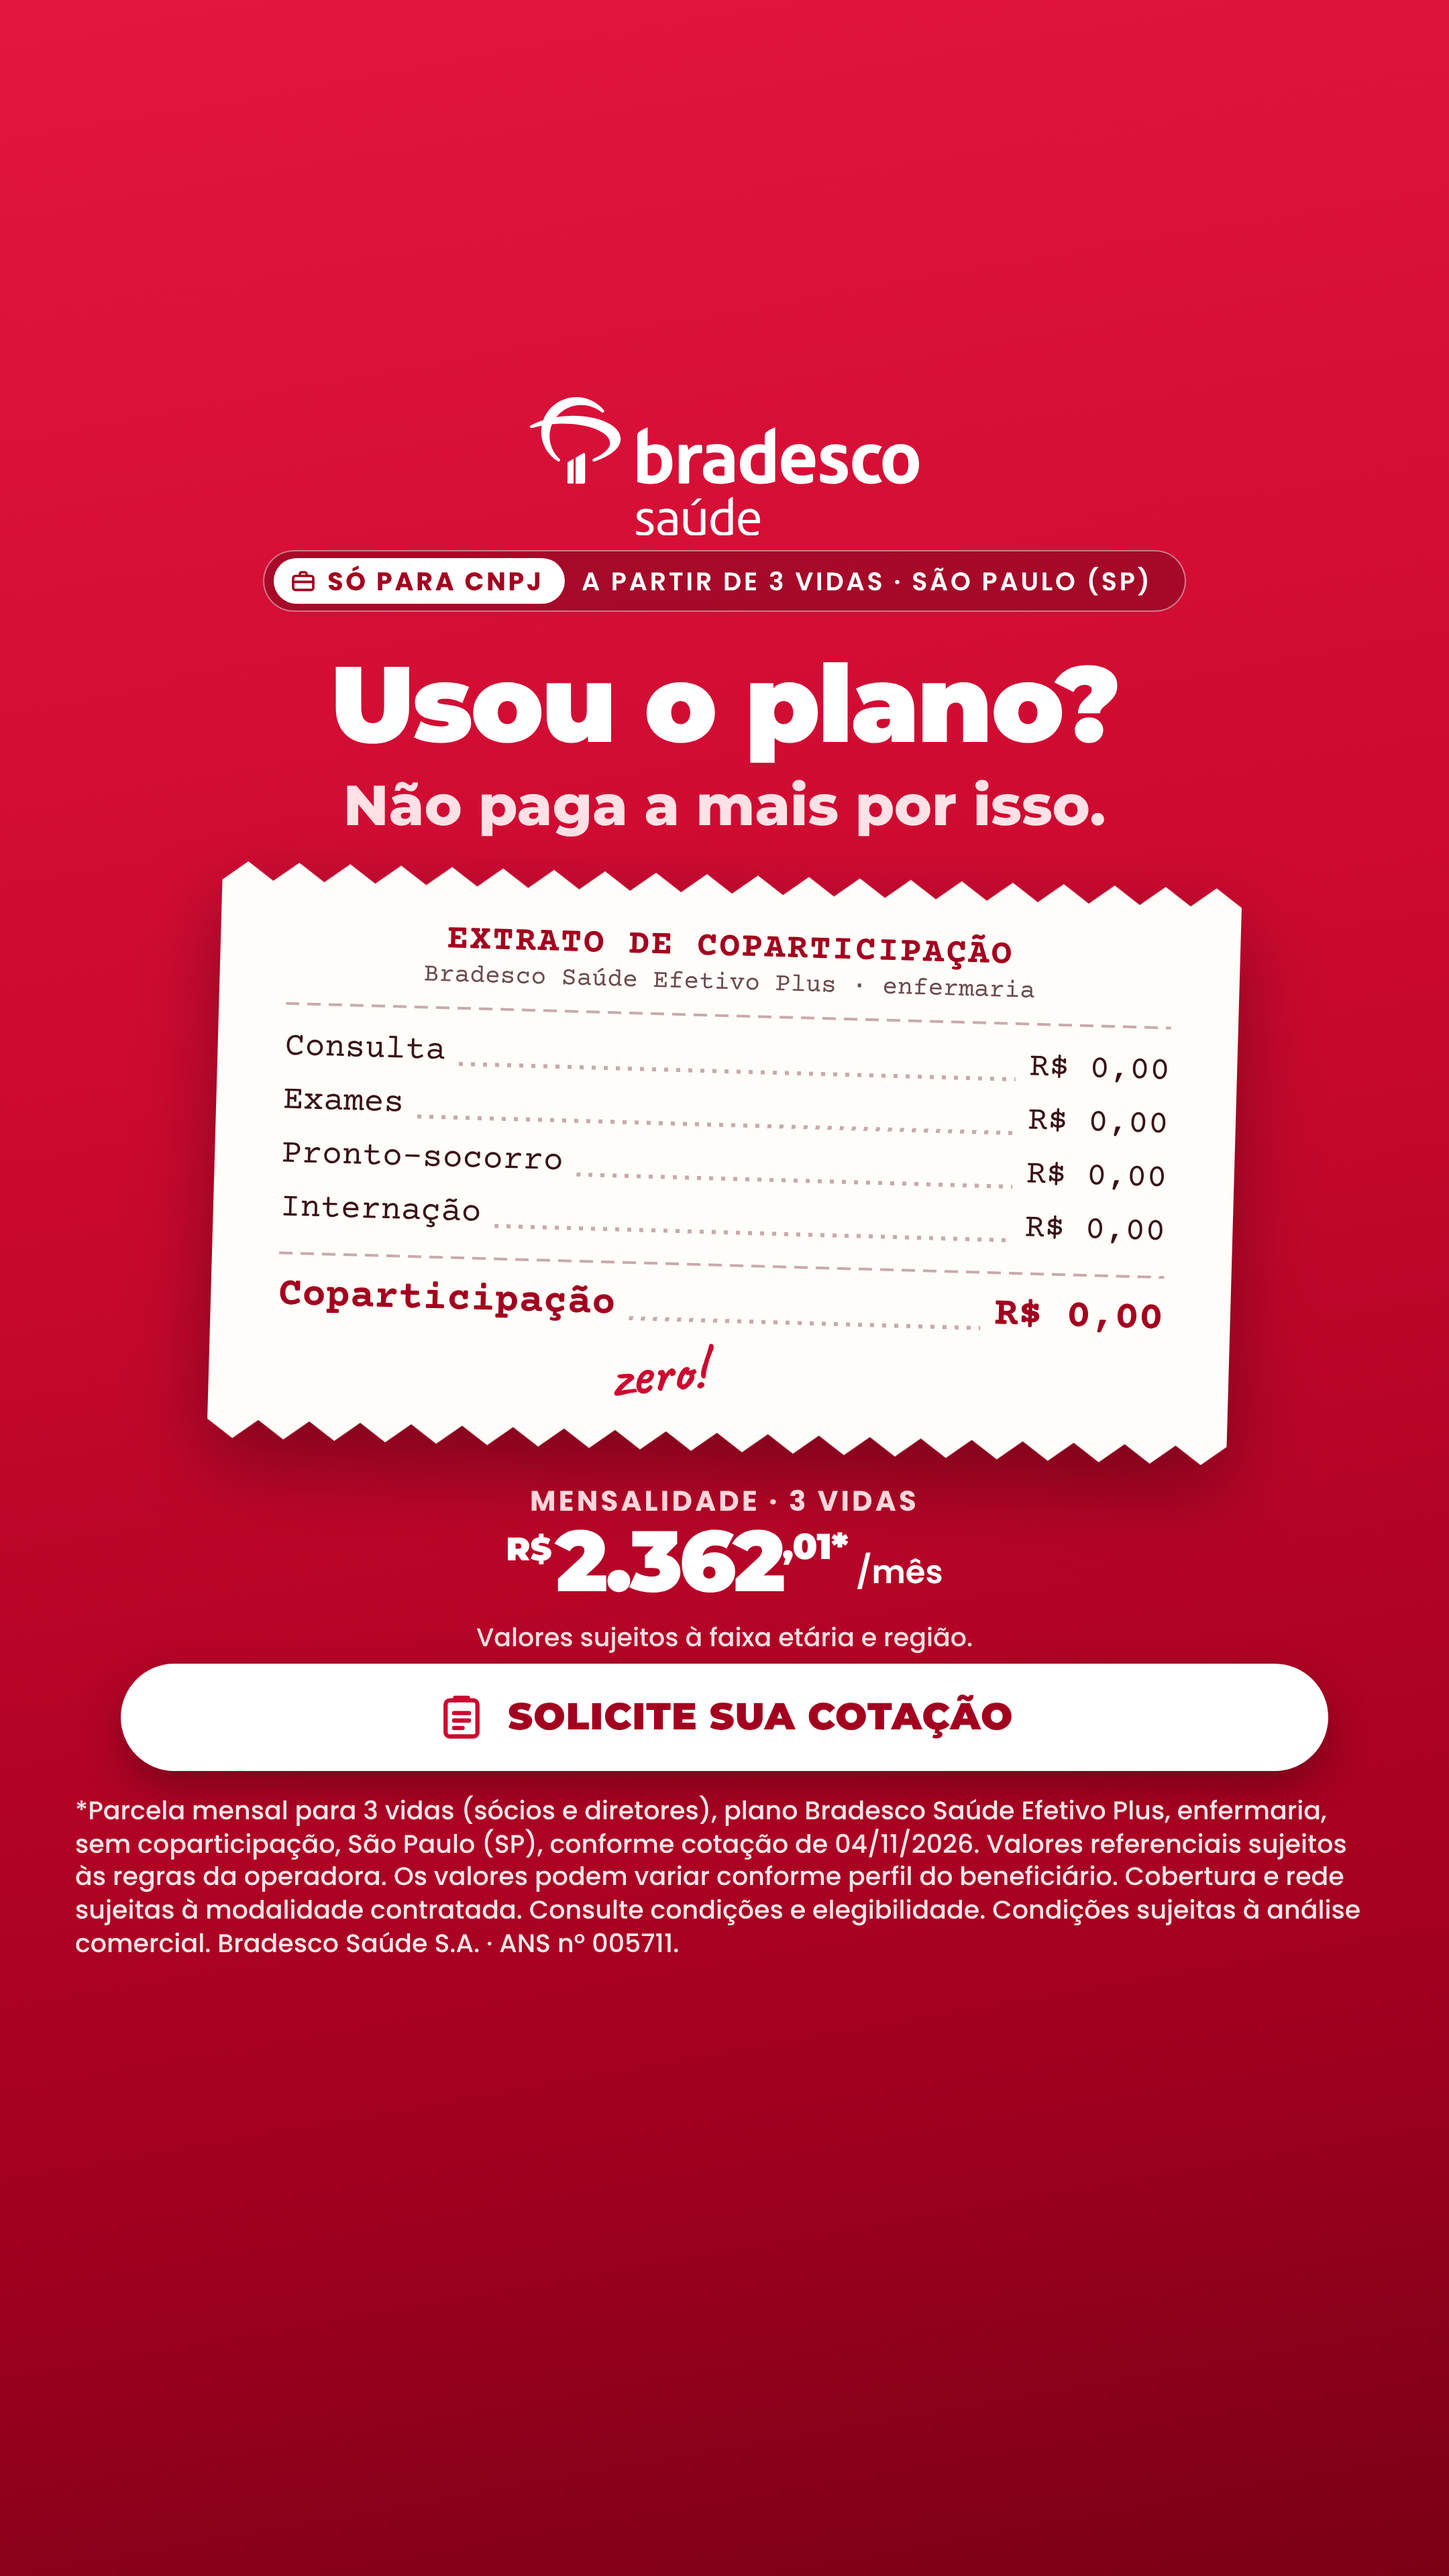
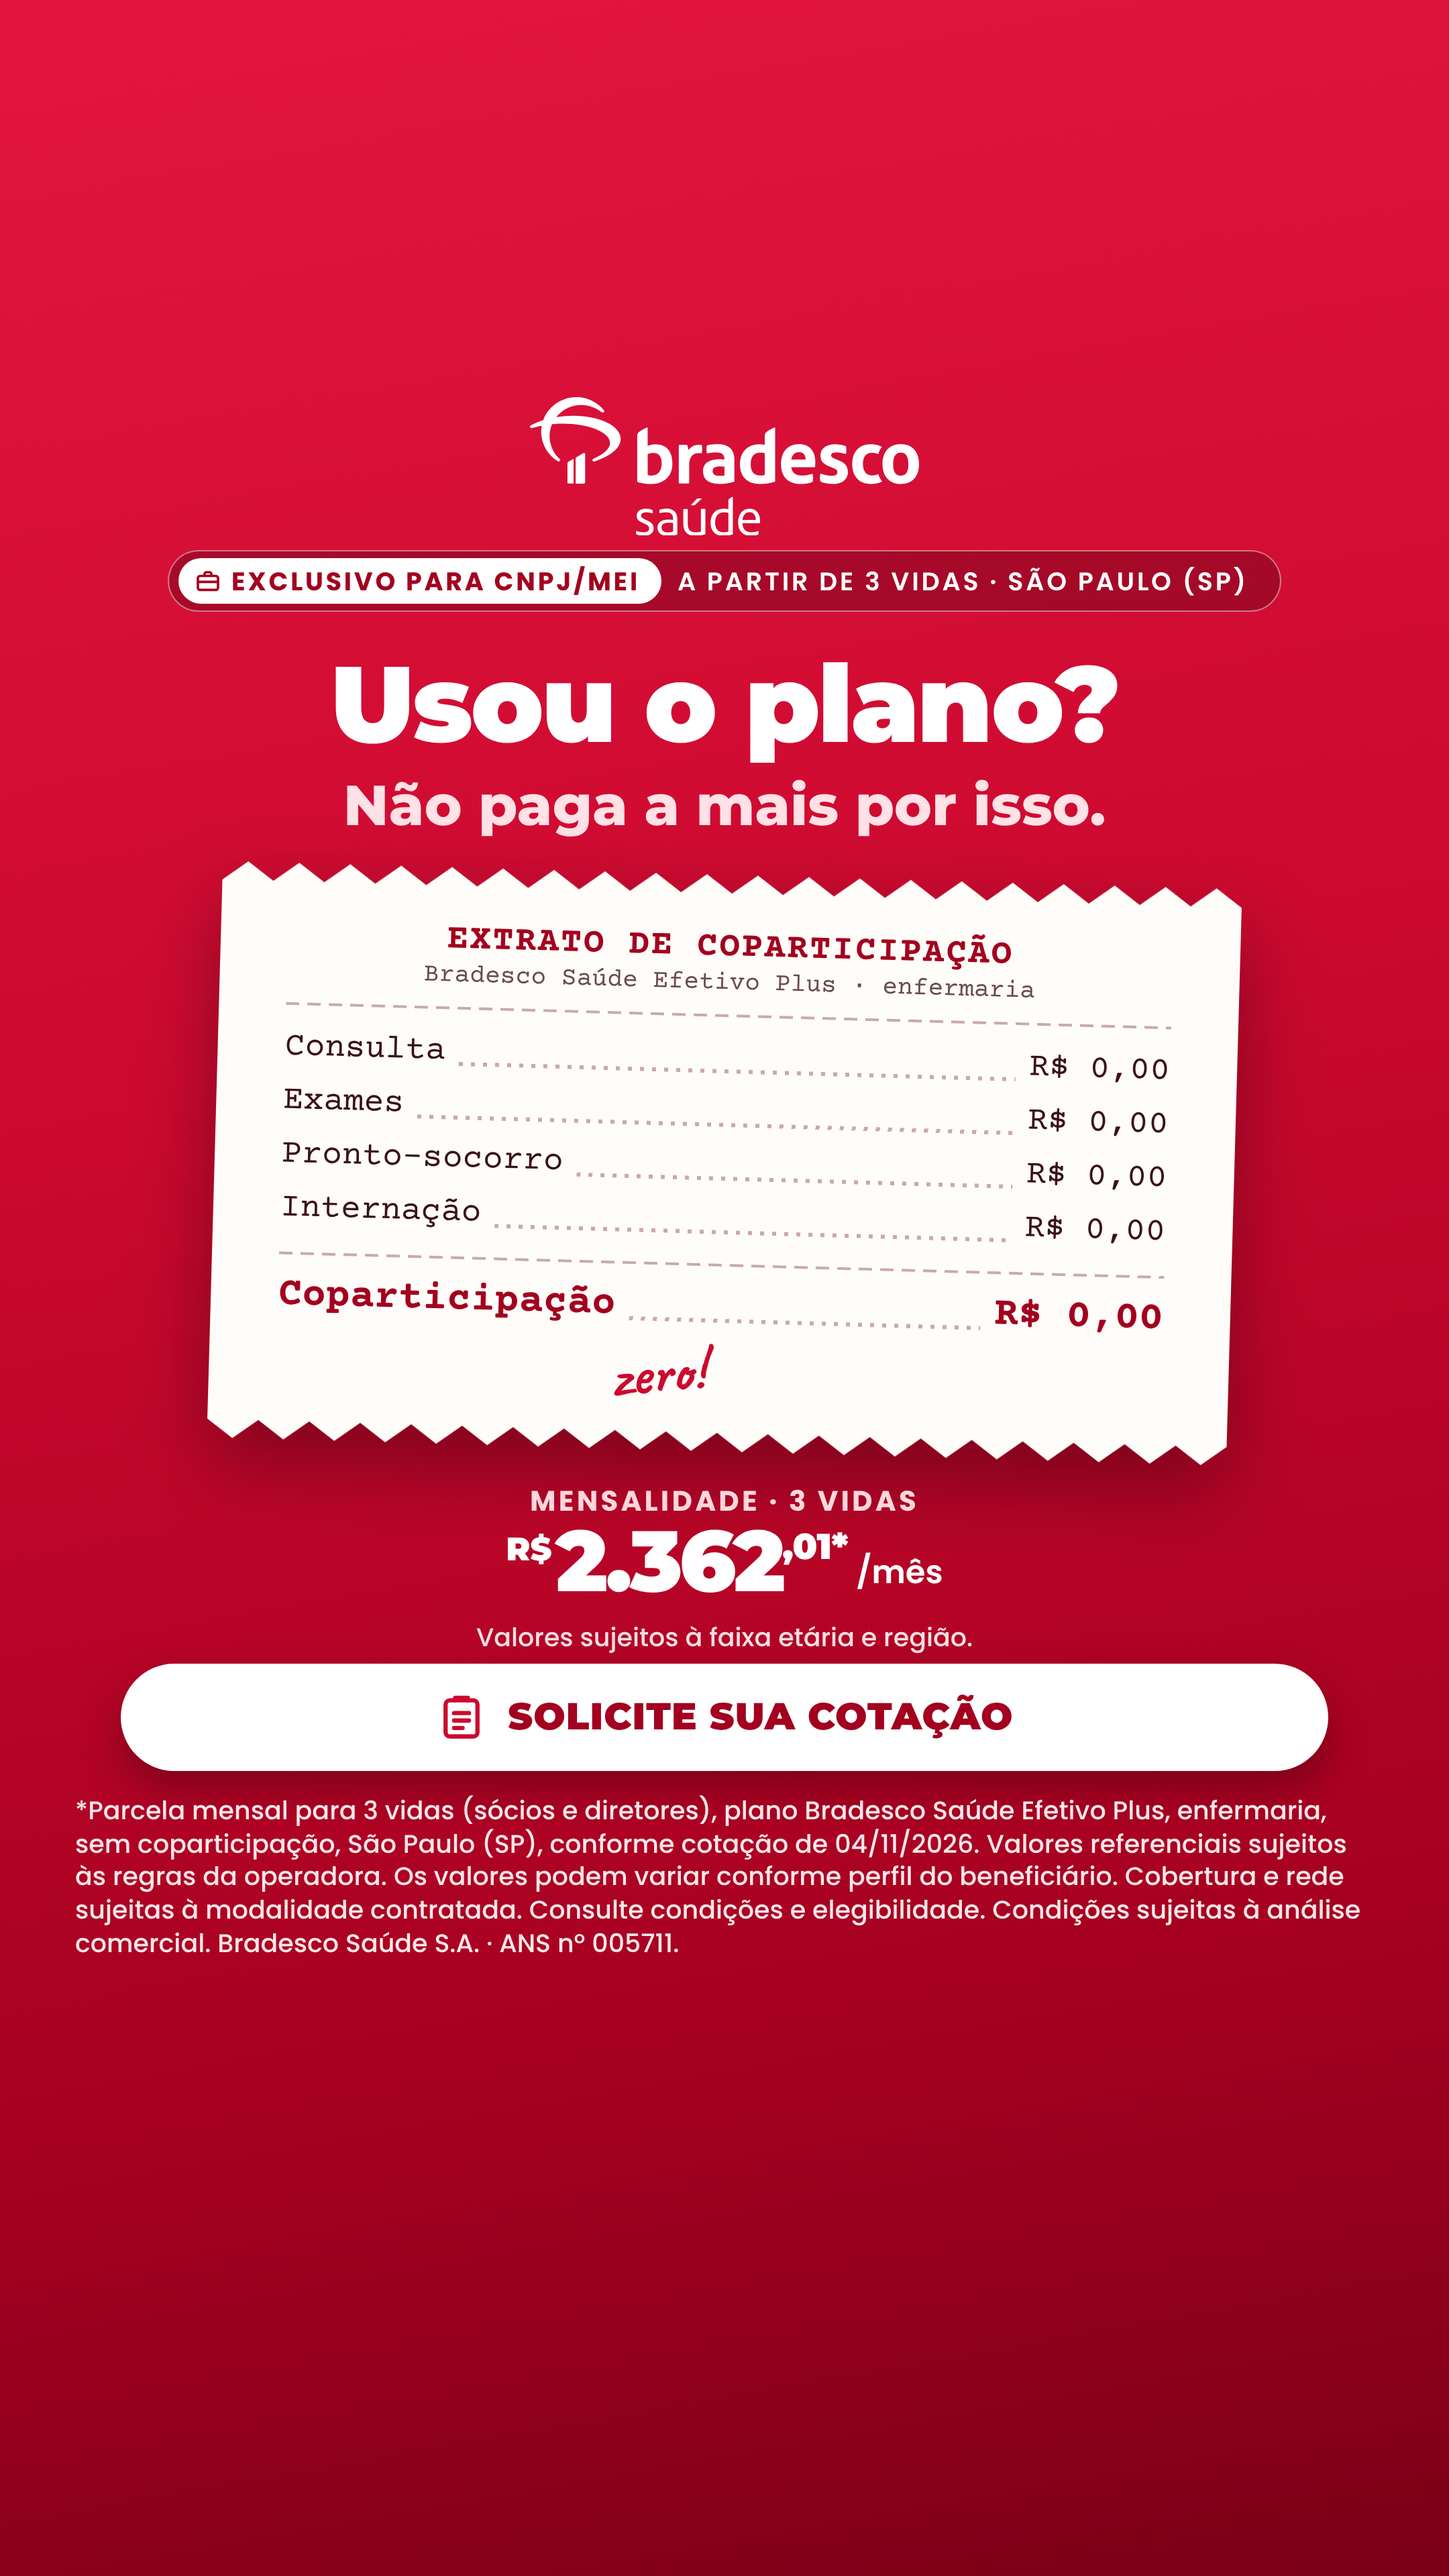
Cotações 3 vidas SP: etiqueta "Exclusivo para CNPJ/MEI"
Texto pedido pelo cliente no selo do topo das 9 peças (no lugar de "Só para CNPJ"); Figma
atualizado; regra do formulário no CLAUDE.md passa a citar CNPJ/MEI. O Express fica para
reimportar quando o serviço da Adobe voltar.

Claude-Session: https://claude.ai/code/session_01GQmGjzcDcCg5ZjPiHt6SBp

Changed region(s): [[0.0931, 0.1875, 0.5894, 0.25], [0.6204, 0.1875, 0.8995, 0.25]]

diff --git a/criativos/cotacoes-3-vidas-sp/pecas/a2-amil-hospital.html b/criativos/cotacoes-3-vidas-sp/pecas/a2-amil-hospital.html
@@ -37,7 +37,7 @@
   <div class="veu-base"></div>
 
   <div class="logo" data-marca="amil"></div>
-  <p class="chip"><span class="req"><span data-icone="maleta"></span>Só para CNPJ</span>A partir de 3 vidas · São Paulo (SP)</p>
+  <p class="chip"><span class="req"><span data-icone="maleta"></span>Exclusivo para CNPJ/MEI</span>A partir de 3 vidas · São Paulo (SP)</p>
 
   <h1 class="h1">Hospital, consulta e exame<br>com a Amil, <em>no Brasil todo.</em></h1>
   <p class="sub">Prata Nacional · enfermaria · coparticipação só em terapias</p>

diff --git a/criativos/cotacoes-3-vidas-sp/pecas/s2-sula-hospital.html b/criativos/cotacoes-3-vidas-sp/pecas/s2-sula-hospital.html
@@ -39,7 +39,7 @@
   </svg>
 
   <div class="logo" data-marca="sula-branco"></div>
-  <p class="chip"><span class="req"><span data-icone="maleta"></span>Só para CNPJ</span>A partir de 3 vidas · São Paulo (SP)</p>
+  <p class="chip"><span class="req"><span data-icone="maleta"></span>Exclusivo para CNPJ/MEI</span>A partir de 3 vidas · São Paulo (SP)</p>
   <h1 class="h1">Plano SulAmérica nacional<br>para a sua empresa <em>em SP</em></h1>
 
   <p class="pilulas"><span>3 vidas</span><span>Sem coparticipação</span><span>Enfermaria</span></p>

diff --git a/criativos/cotacoes-3-vidas-sp/pecas/b1-bradesco-hospital.html b/criativos/cotacoes-3-vidas-sp/pecas/b1-bradesco-hospital.html
@@ -41,7 +41,7 @@
   </svg>
 
   <div class="logo" data-marca="bradesco"></div>
-  <p class="chip"><span class="req"><span data-icone="maleta"></span>Só para CNPJ</span>A partir de 3 vidas · São Paulo (SP)</p>
+  <p class="chip"><span class="req"><span data-icone="maleta"></span>Exclusivo para CNPJ/MEI</span>A partir de 3 vidas · São Paulo (SP)</p>
   <h1 class="h1">Plano de saúde para 3 vidas,<br><em>sem coparticipação</em></h1>
 
   <div class="moldura"><img src="../assets/fotos/cortes/b1-passarela-faixa.jpg" alt=""></div>

diff --git a/criativos/cotacoes-3-vidas-sp/pecas/s1-sula-preco.html b/criativos/cotacoes-3-vidas-sp/pecas/s1-sula-preco.html
@@ -41,7 +41,7 @@
   </svg>
 
   <div class="logo" data-marca="sula-branco"></div>
-  <p class="chip"><span class="req"><span data-icone="maleta"></span>Só para CNPJ</span>A partir de 3 vidas · São Paulo (SP)</p>
+  <p class="chip"><span class="req"><span data-icone="maleta"></span>Exclusivo para CNPJ/MEI</span>A partir de 3 vidas · São Paulo (SP)</p>
   <h1 class="h1">3 vidas, plano nacional,<br><em>sem coparticipação.</em></h1>
 
   <p class="preco"><span class="rs">R$</span>1.593<span class="cent">,54*</span></p>

diff --git a/criativos/cotacoes-3-vidas-sp/pecas/s3-sula-conta.html b/criativos/cotacoes-3-vidas-sp/pecas/s3-sula-conta.html
@@ -41,7 +41,7 @@
   <div class="veu"></div>
 
   <div class="logo" data-marca="sula-branco"></div>
-  <p class="chip"><span class="req"><span data-icone="maleta"></span>Só para CNPJ</span>A partir de 3 vidas · São Paulo (SP)</p>
+  <p class="chip"><span class="req"><span data-icone="maleta"></span>Exclusivo para CNPJ/MEI</span>A partir de 3 vidas · São Paulo (SP)</p>
   <h1 class="h1">Quanto custa a SulAmérica<br><em>para 3 vidas em SP?</em></h1>
 
   <div class="conta">

diff --git a/criativos/cotacoes-3-vidas-sp/pecas/a3-amil-tabela.html b/criativos/cotacoes-3-vidas-sp/pecas/a3-amil-tabela.html
@@ -48,7 +48,7 @@
   </svg>
 
   <div class="logo" data-marca="amil"></div>
-  <p class="chip"><span class="req"><span data-icone="maleta"></span>Só para CNPJ</span>A partir de 3 vidas · São Paulo (SP)</p>
+  <p class="chip"><span class="req"><span data-icone="maleta"></span>Exclusivo para CNPJ/MEI</span>A partir de 3 vidas · São Paulo (SP)</p>
   <h1 class="h1">Quanto custa a Amil<br><em>na sua idade?</em></h1>
   <p class="mao dica">valor por pessoa, por mês ↓</p>
 

diff --git a/criativos/cotacoes-3-vidas-sp/pecas/b3-bradesco-paulista.html b/criativos/cotacoes-3-vidas-sp/pecas/b3-bradesco-paulista.html
@@ -41,7 +41,7 @@
   <div class="veu-base"></div>
 
   <div class="logo" data-marca="bradesco"></div>
-  <p class="chip"><span class="req"><span data-icone="maleta"></span>Só para CNPJ</span>Sócios e diretores · a partir de 3 vidas</p>
+  <p class="chip"><span class="req"><span data-icone="maleta"></span>Exclusivo para CNPJ/MEI</span>Sócios e diretores · a partir de 3 vidas</p>
   <h1 class="h1">Sua empresa é<br>de <em>São Paulo?</em></h1>
 
   <div class="cartao">

diff --git a/criativos/cotacoes-3-vidas-sp/pecas/b2-bradesco-extrato.html b/criativos/cotacoes-3-vidas-sp/pecas/b2-bradesco-extrato.html
@@ -40,7 +40,7 @@
 </head>
 <body data-operadora="bradesco">
   <div class="logo" data-marca="bradesco"></div>
-  <p class="chip"><span class="req"><span data-icone="maleta"></span>Só para CNPJ</span>A partir de 3 vidas · São Paulo (SP)</p>
+  <p class="chip"><span class="req"><span data-icone="maleta"></span>Exclusivo para CNPJ/MEI</span>A partir de 3 vidas · São Paulo (SP)</p>
   <h1 class="h1">Usou o plano?</h1>
   <p class="h2">Não paga a mais por isso.</p>
 

diff --git a/criativos/cotacoes-3-vidas-sp/pecas/a1-amil-recibo.html b/criativos/cotacoes-3-vidas-sp/pecas/a1-amil-recibo.html
@@ -46,7 +46,7 @@
   </svg>
 
   <div class="logo" data-marca="amil"></div>
-  <p class="chip"><span class="req"><span data-icone="maleta"></span>Só para CNPJ</span>A partir de 3 vidas · São Paulo (SP)</p>
+  <p class="chip"><span class="req"><span data-icone="maleta"></span>Exclusivo para CNPJ/MEI</span>A partir de 3 vidas · São Paulo (SP)</p>
   <h1 class="h1">Plano Amil para 3 vidas</h1>
   <p class="h2">com a 1ª e a 2ª mensalidade pela metade</p>
 

diff --git a/criativos/cotacoes-3-vidas-sp/README.md b/criativos/cotacoes-3-vidas-sp/README.md
@@ -39,11 +39,11 @@ o texto em branco).
 
 ## Destino: formulário com trava (CNPJ + 3 vidas ou mais)
 
-Todos os anúncios levam para o formulário do Meta, que só aceita quem tem CNPJ e 3 vidas ou mais (regra do
+Todos os anúncios levam para o formulário do Meta, que só aceita quem tem CNPJ (MEI incluído) e 3 vidas ou mais (regra do
 CLAUDE.md). Por isso as 9 peças têm:
 
-- **No topo, logo abaixo da marca:** a etiqueta "**SÓ PARA CNPJ** · A PARTIR DE 3 VIDAS · SÃO PAULO (SP)". Na B3 o
-  texto é "SÓCIOS E DIRETORES · A PARTIR DE 3 VIDAS". O "Só para CNPJ" vem num selo na cor de destaque da operadora:
+- **No topo, logo abaixo da marca:** a etiqueta "**EXCLUSIVO PARA CNPJ/MEI** · A PARTIR DE 3 VIDAS · SÃO PAULO (SP)". Na B3 o
+  texto é "SÓCIOS E DIRETORES · A PARTIR DE 3 VIDAS". O "Exclusivo para CNPJ/MEI" vem num selo na cor de destaque da operadora:
   verde na Amil, branco no Bradesco, laranja na SulAmérica.
 - **Botão:** "**Solicite sua cotação**", com ícone de formulário. Não há "fale com um consultor" nem balão de
   conversa. No Meta, use o botão "Obter cotação".
@@ -82,6 +82,9 @@ contraste de 4,27:1 (texto grande).
   texto. Para trocar o valor, edite a caixa do meio e ajuste a posição dos centavos.
 - **Adobe Express:** "Cotações 3 vidas SP · Stories · FINAL", com as 9 peças num documento só:
   https://new.express.adobe.com/id/urn:aaid:sc:VA6C2:6735f0bc-03ca-49cb-b34b-1f76674c120d.
+  **Atenção:** esse documento é anterior à etiqueta "Exclusivo para CNPJ/MEI" e ao botão "Solicite sua cotação".
+  O serviço da Adobe estava fora do ar (06/11/2026) na hora de importar a versão nova. Para reimportar, siga
+  "Gerar de novo" abaixo.
   O Express não tem Courier Prime nem Gabarito, então ficou assim:
   - o texto de recibo/extrato/carimbo usa **Inconsolata**, a única monoespaçada do Express e só no peso Regular,
     com +0,1em de espaçamento para as colunas continuarem alinhadas;

diff --git a/CLAUDE.md b/CLAUDE.md
@@ -53,15 +53,15 @@ Usar o texto **exatamente** como está (sem reescrever, encurtar ou trocar palav
 ### Destino dos anúncios: formulário com trava (CNPJ + 3 vidas ou mais)
 
 Pedido do cliente em 06/11/2026. Todos os anúncios de plano de saúde levam para o **formulário de cadastro do
-Meta**. Esse formulário tem trava e só aceita **quem tem CNPJ e 3 vidas ou mais**. Por isso:
+Meta**. Esse formulário tem trava e só aceita **quem tem CNPJ (MEI incluído) e 3 vidas ou mais**. Por isso:
 
 - **Criativo:** o requisito aparece logo no começo, perto do logo, para filtrar quem não pode contratar. Exemplo:
-  etiqueta "Só para CNPJ · a partir de 3 vidas".
+  etiqueta "Exclusivo para CNPJ/MEI · a partir de 3 vidas" (texto pedido pelo cliente).
 - **Botão do criativo:** fala de cotação ou formulário ("Solicite sua cotação"). Nunca WhatsApp, conversa ou
   "fale com um consultor", e nada de ícone de balão de conversa.
 - **Copy do Meta:** botão "Obter cotação" (ou "Cadastre-se"). Nunca "Enviar mensagem" nem "chame no WhatsApp".
-  O texto cita CNPJ e "a partir de 3 vidas".
-- **Público:** empresas e empreendedores com CNPJ. Quando falar de família, deixar claro que a contratação é pelo
+  O texto cita "CNPJ/MEI" e "a partir de 3 vidas".
+- **Público:** empresas e empreendedores com CNPJ ou MEI. Quando falar de família, deixar claro que a contratação é pelo
   CNPJ.
 
 ### Referências visuais (inspiração obrigatória)
